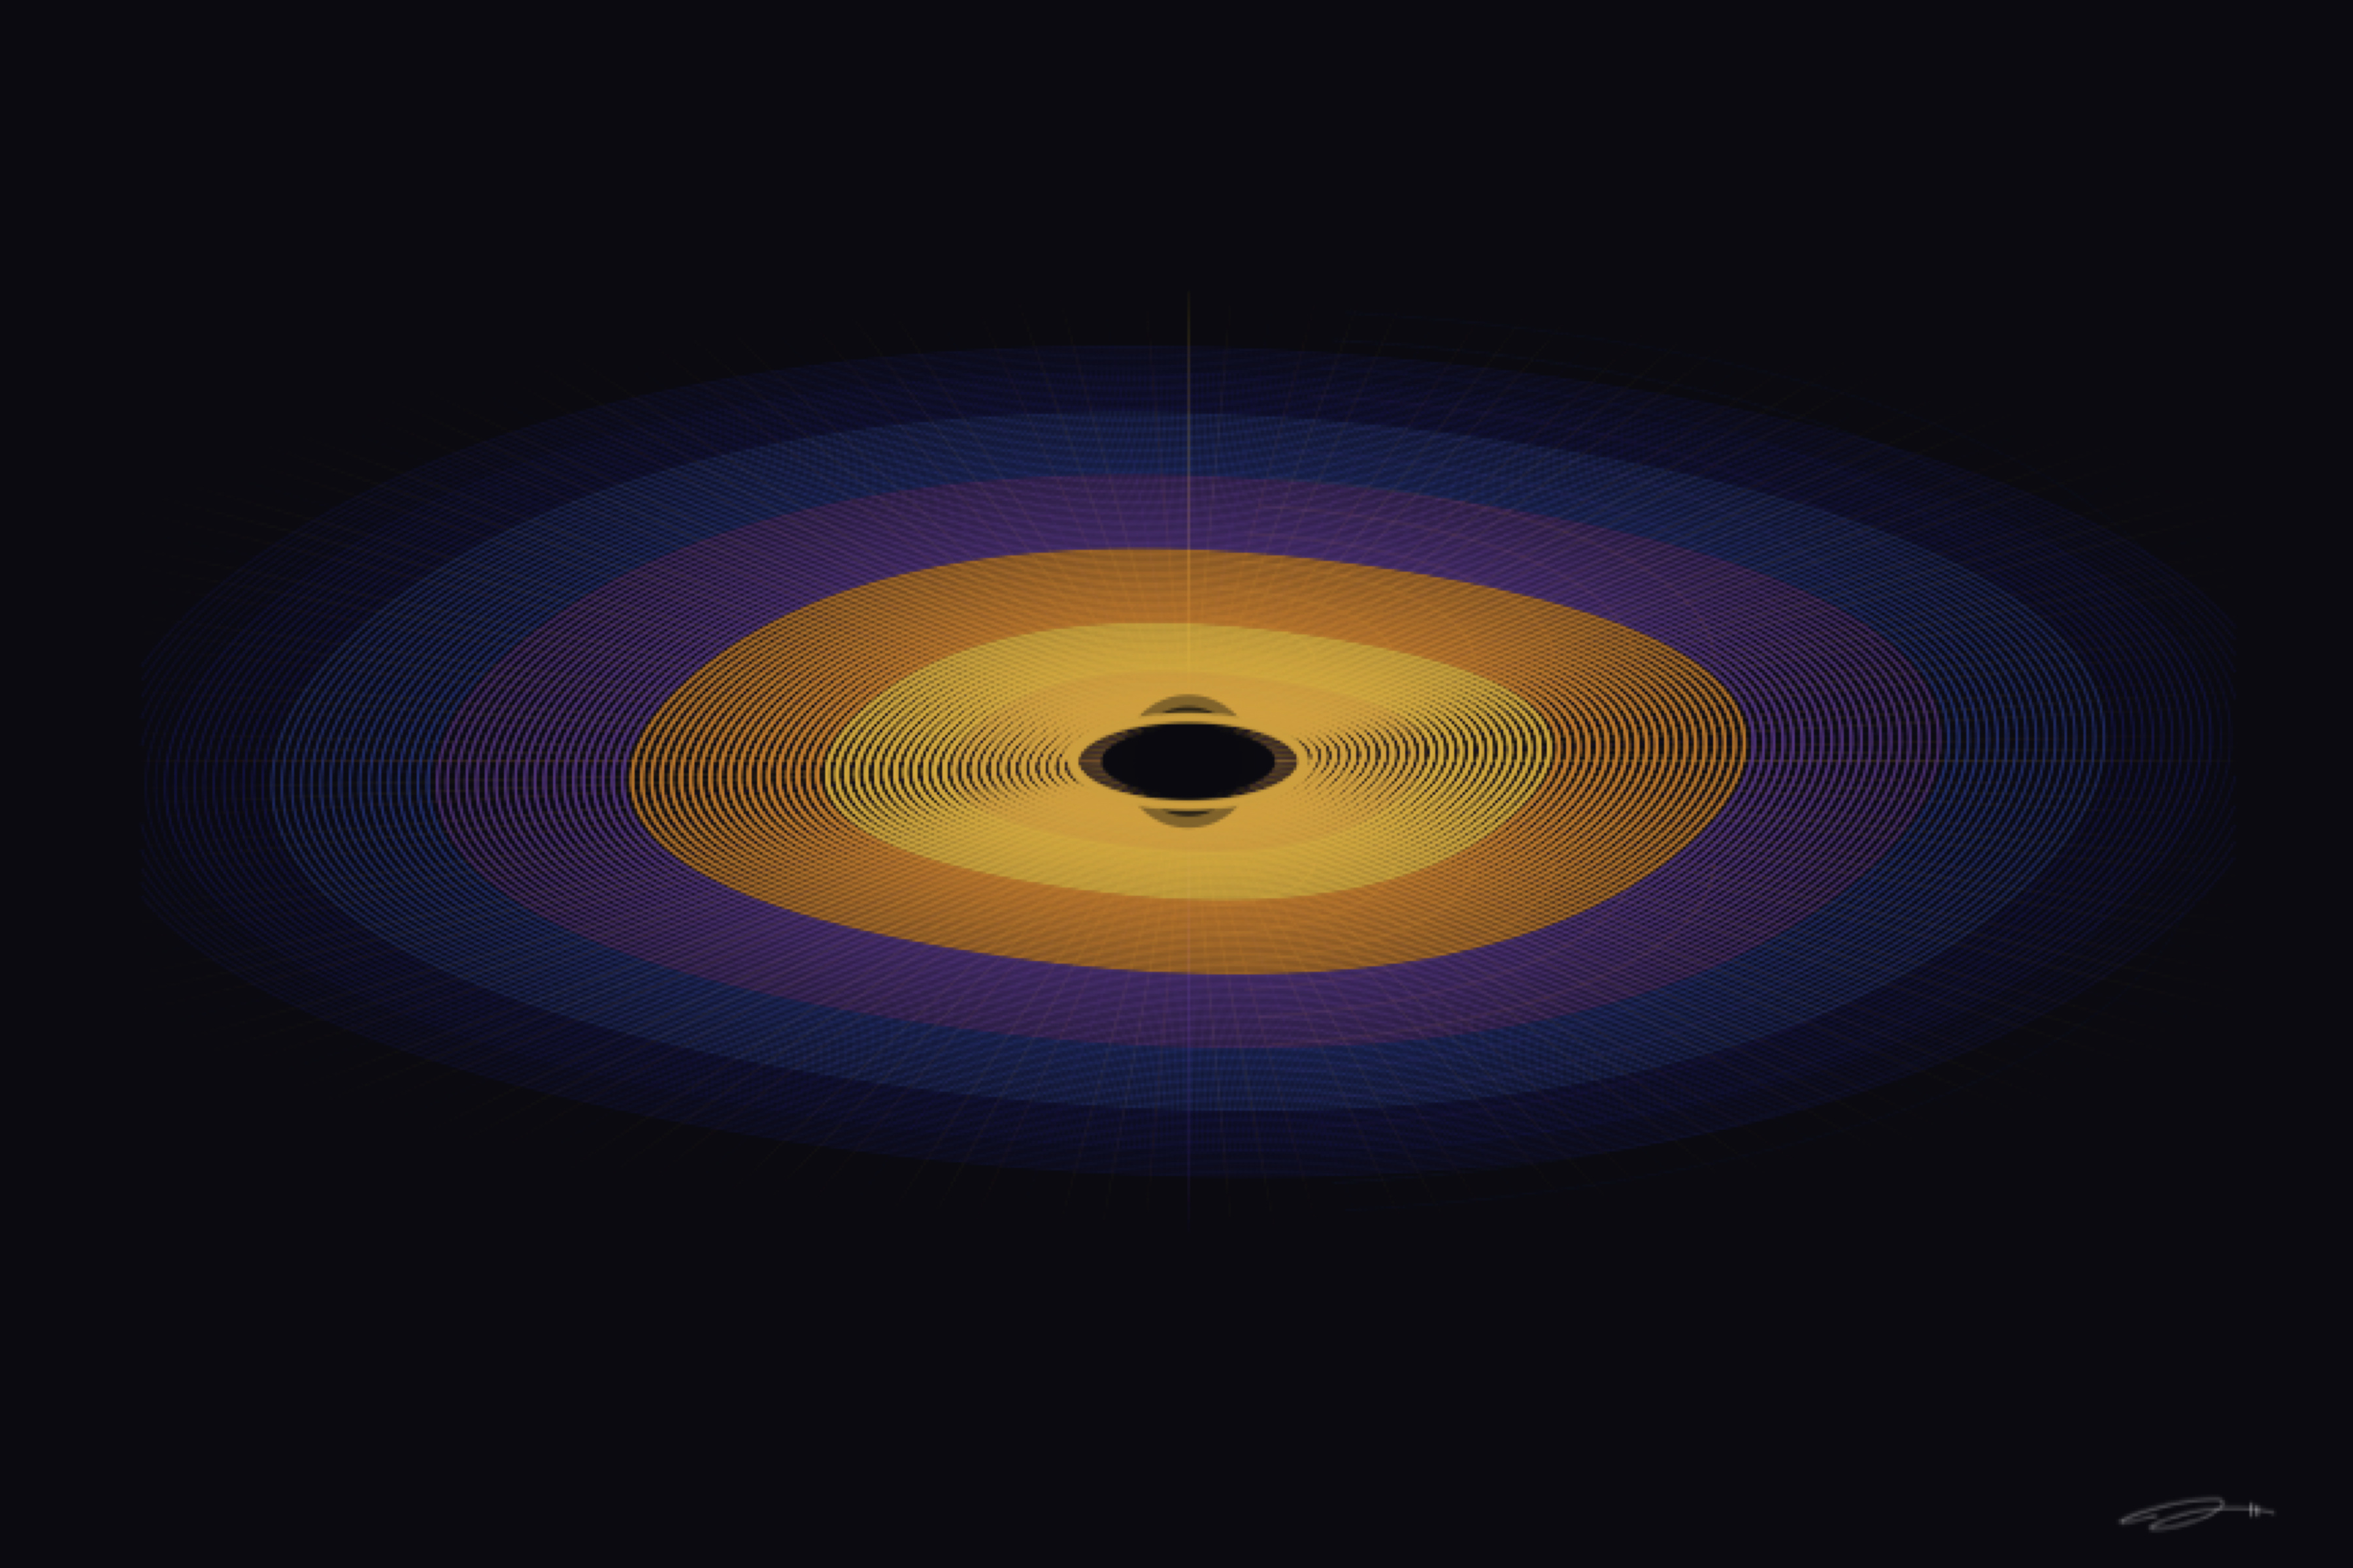
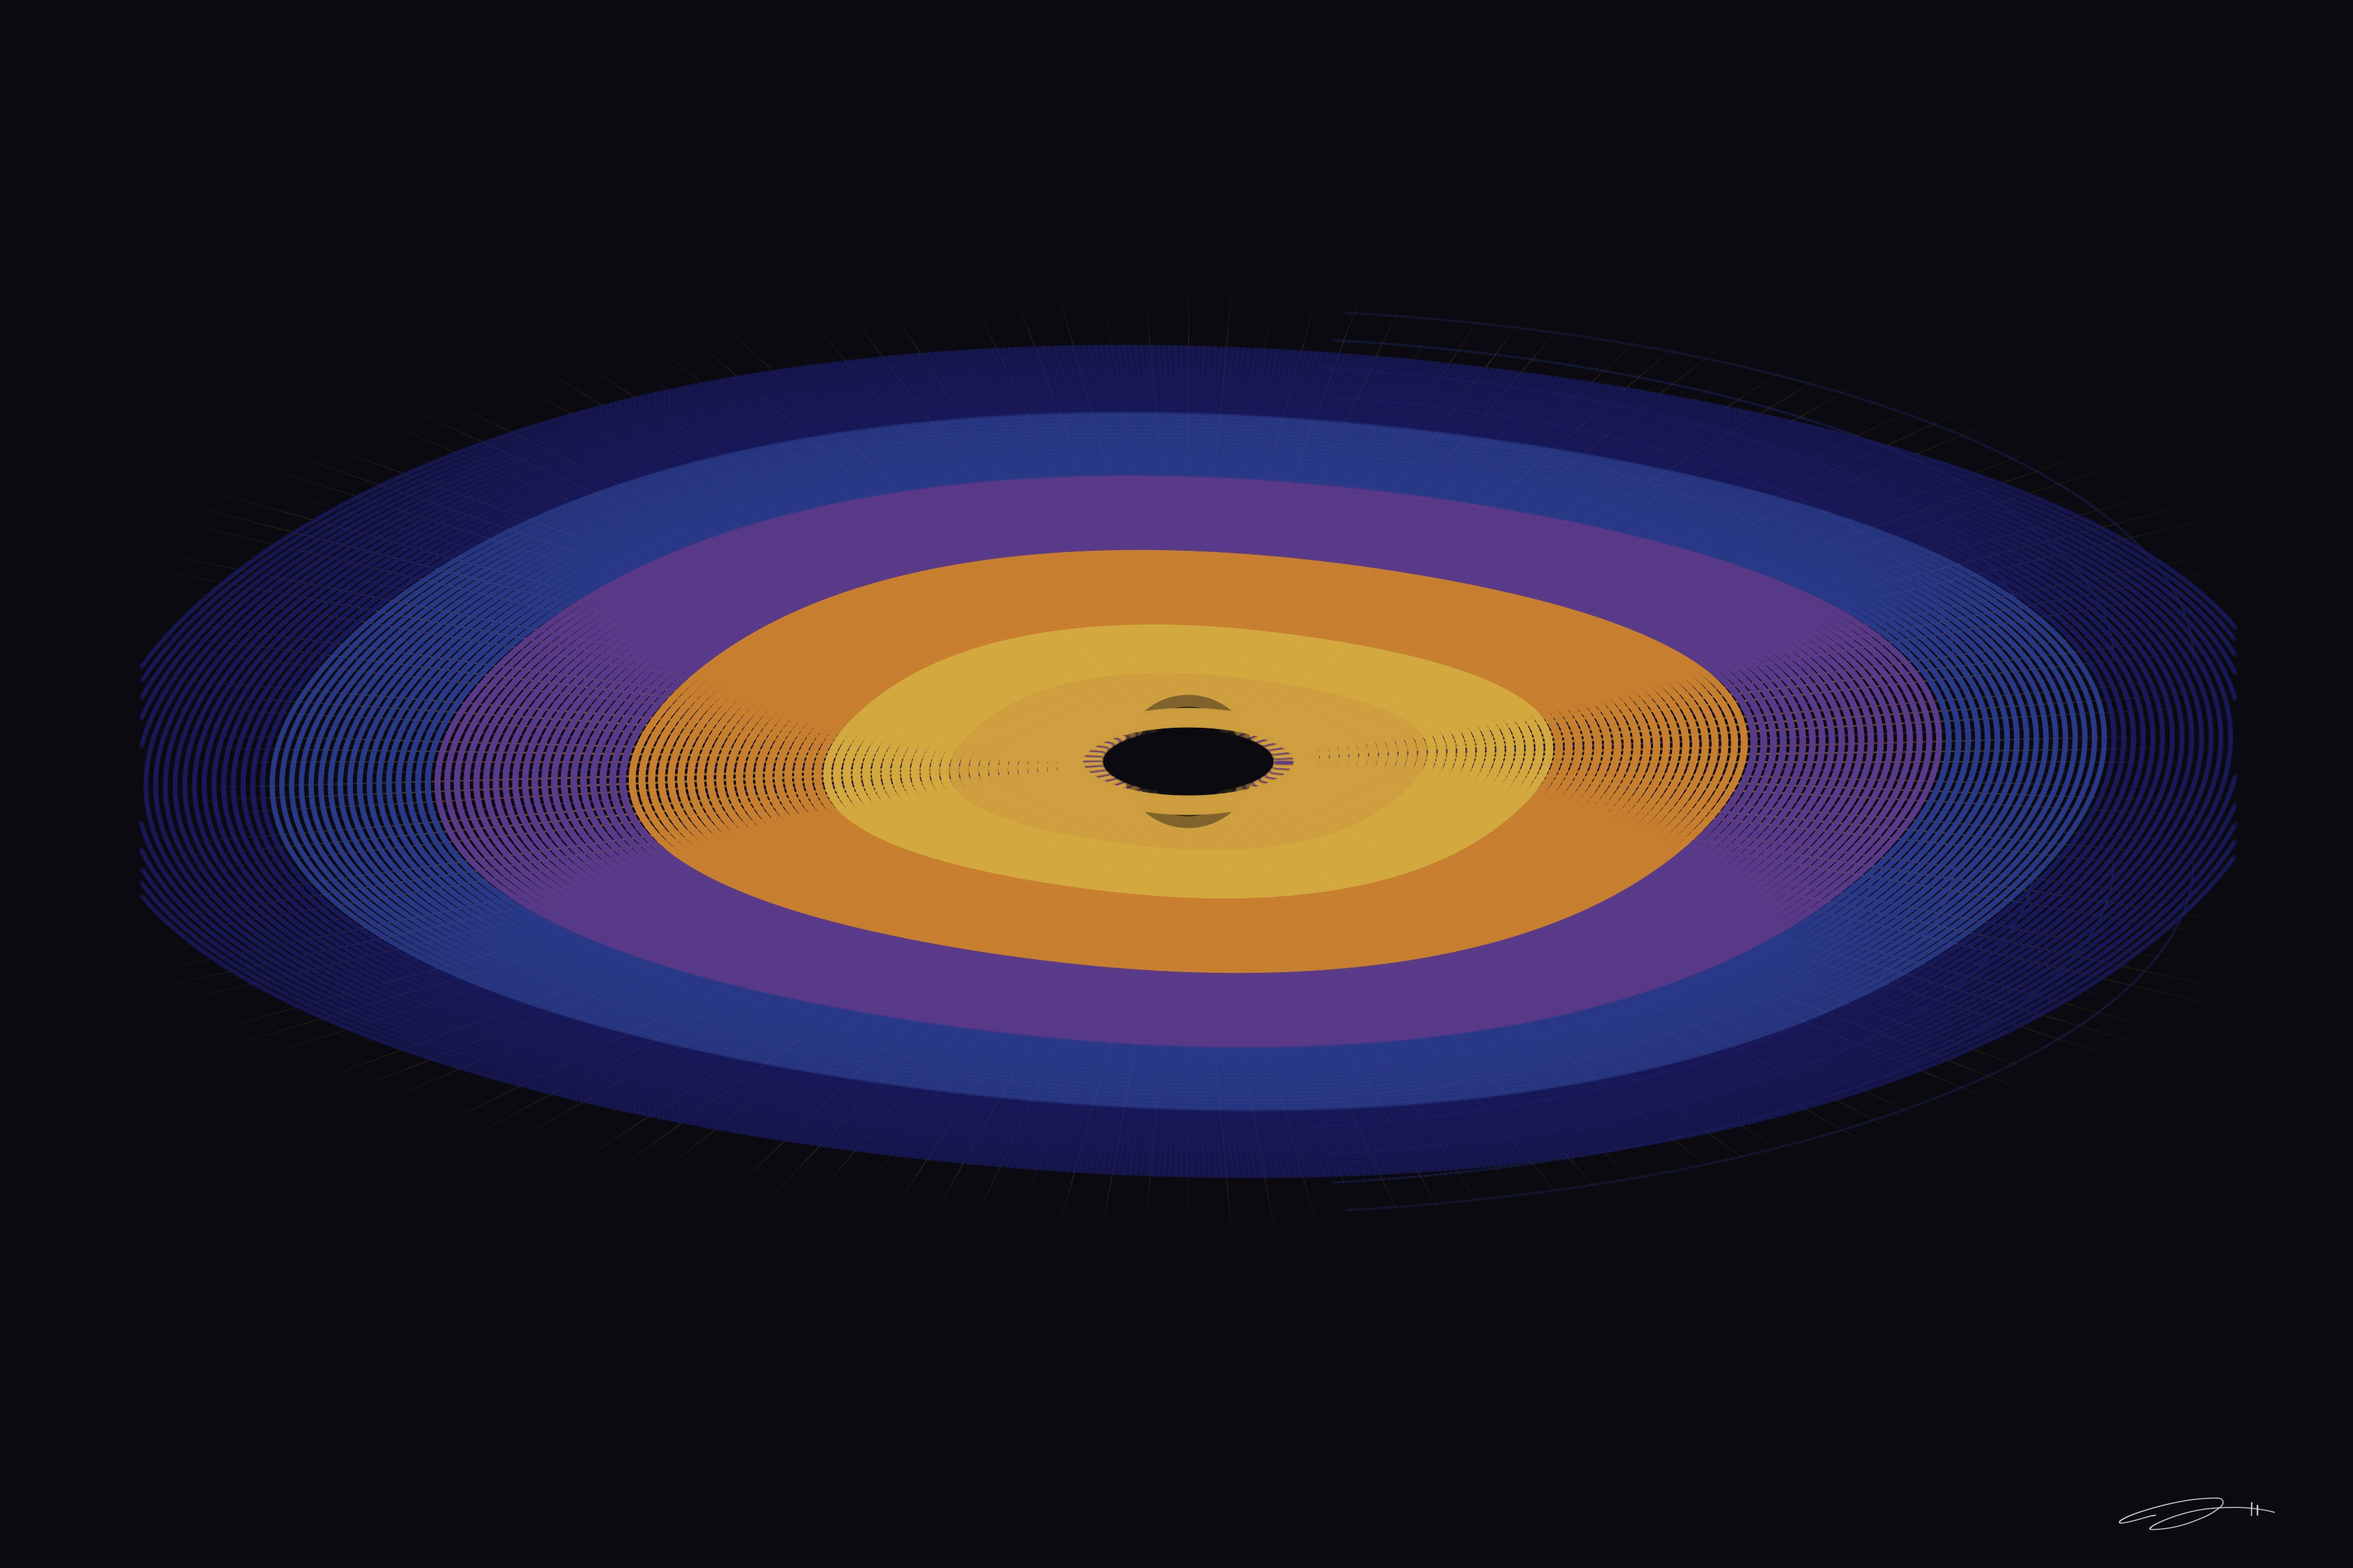
Punch up Singularity — alpha 1.8, lineweight 1.8 for print + web
Refactor render to accept alpha_boost and lw_boost parameters.
Full accretion disk color gradient (yellow core through orange,
purple, deep blue) now reads clearly at both print and homepage
thumbnail size. Re-uploaded PDF to Vercel Blob.

diff --git a/mathematical_affect/pieces/awe/awe_singularity.py b/mathematical_affect/pieces/awe/awe_singularity.py
@@ -86,18 +86,9 @@ def draw_tapered(ax, xs, ys, col, lw_start, lw_end, a_start, a_end, zo=4):
 
 SCRIPT_DIR = os.path.dirname(os.path.abspath(__file__))
 OUTPUT_DIR = os.path.join(SCRIPT_DIR, '..', '..', 'output')
+PRINT_DIR = os.path.join(SCRIPT_DIR, '..', '..', '..', 'public', 'prints', 'awe')
 
-def save(fig, name):
-    os.makedirs(OUTPUT_DIR, exist_ok=True)
-    if not name.endswith('.pdf'):
-        name = name + '.pdf'
-    fig.subplots_adjust(left=0, right=1, top=1, bottom=0)
-    fig.savefig(os.path.join(OUTPUT_DIR, name),
-                format='pdf', facecolor=BG)
-    plt.close(fig)
-    print(f'saved {name}')
-
-def render():
+def render(alpha_boost=1.0, lw_boost=1.0):
     fig, ax = make_fig()
     np.random.seed(42)
     inclination = 0.38
@@ -120,8 +111,8 @@ def render():
         elif frac < 0.65: col = NEBULA_P
         elif frac < 0.82: col = COSMIC
         else: col = INDIGO
-        alpha = 0.55 * (1.0 - frac * 0.6) + 0.08
-        lw = 1.6 * (1.0 - frac * 0.5) + 0.15
+        alpha = min((0.55 * (1.0 - frac * 0.6) + 0.08) * alpha_boost, 0.95)
+        lw = (1.6 * (1.0 - frac * 0.5) + 0.15) * lw_boost
         for seg_xs, seg_ys in split_segments(xs_o, ys_o, mask):
             draw_lc(ax, seg_xs, seg_ys, col, lw=lw, alpha=alpha, zo=3)
     # Radiating lines
@@ -139,8 +130,8 @@ def render():
             pts = np.array([seg_xs, seg_ys]).T.reshape(-1, 1, 2)
             segs = np.concatenate([pts[:-1], pts[1:]], axis=1)
             n_s = len(segs)
-            alphas = np.linspace(0.30, 0.02, n_s)
-            lws = np.linspace(0.8, 0.10, n_s)
+            alphas = np.clip(np.linspace(0.30, 0.02, n_s) * alpha_boost, 0, 0.95)
+            lws = np.linspace(0.8, 0.10, n_s) * lw_boost
             col_ray = [CORONA, GOLD, AMBER, NEBULA_P][i % 4]
             colors = [rgba(col_ray, float(a_)) for a_ in alphas]
             lc = mc.LineCollection(segs, linewidths=lws, colors=colors,
@@ -159,7 +150,10 @@ def render():
             if mask_a.sum() < 3: continue
             arc_col = [CORONA, AMBER, NEBULA_P, COSMIC][min(int(j_frac * 4), 3)]
             for seg_xs, seg_ys in split_segments(xs_arc, ys_arc, mask_a):
-                draw_lc(ax, seg_xs, seg_ys, arc_col, lw=0.5, alpha=0.18 * (1 - j_frac * 0.7), zo=2)
+                draw_lc(ax, seg_xs, seg_ys, arc_col,
+                        lw=0.5 * lw_boost,
+                        alpha=min(0.18 * (1 - j_frac * 0.7) * alpha_boost, 0.95),
+                        zo=2)
     # Event horizon
     for r_, a_ in [(0.22, 1.0), (0.28, 0.7), (0.34, 0.4)]:
         ax.add_patch(Circle((cx, cy), radius=r_,
@@ -170,9 +164,33 @@ def render():
     xs_ring = cx + r_ring * np.cos(phi_ring)
     ys_ring = cy + r_ring * np.sin(phi_ring) * inclination
     for a_r, lw_r in [(0.55, 1.5), (0.35, 2.5), (0.18, 4.0)]:
-        draw_lc(ax, xs_ring, ys_ring, CORONA, lw=lw_r, alpha=a_r, zo=7)
+        draw_lc(ax, xs_ring, ys_ring, CORONA,
+                lw=lw_r * lw_boost,
+                alpha=min(a_r * alpha_boost, 0.95), zo=7)
     add_signature(fig, ax, BG)
-    save(fig, "awe_singularity.pdf")
+    return fig
+
 
 if __name__ == '__main__':
-    render()
+    os.makedirs(OUTPUT_DIR, exist_ok=True)
+    os.makedirs(PRINT_DIR, exist_ok=True)
+    print("═══ Awe: Singularity ═══")
+
+    # Print PDF — punchier so accretion disk reads boldly
+    fig = render(alpha_boost=1.8, lw_boost=1.8)
+    fig.subplots_adjust(left=0, right=1, top=1, bottom=0)
+    pdf_path = os.path.join(OUTPUT_DIR, "awe_singularity.pdf")
+    fig.savefig(pdf_path, format='pdf', facecolor=BG)
+    print(f"  saved {pdf_path}")
+    plt.close(fig)
+
+    # Web thumbnail — same punchy settings
+    fig = render(alpha_boost=1.8, lw_boost=1.8)
+    fig.subplots_adjust(left=0, right=1, top=1, bottom=0)
+    jpg_path = os.path.join(PRINT_DIR, "awe_singularity.jpg")
+    fig.savefig(jpg_path, facecolor=BG, dpi=DPI,
+                pil_kwargs={"quality": 96})
+    print(f"  saved {jpg_path}")
+    plt.close(fig)
+
+    print("═══ Done ═══")
